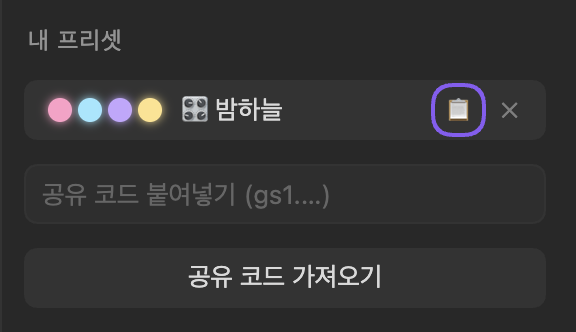
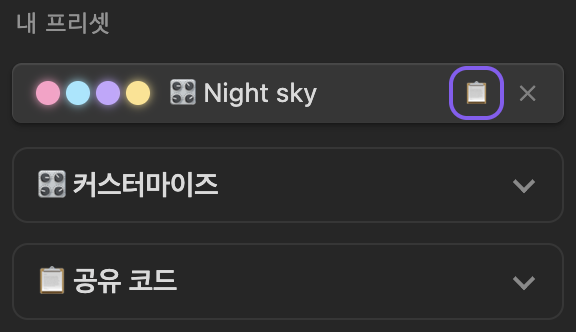
docs: show the grouped panel in the README text and screenshots
The README text and the 14 panel screenshots still described the old flat panel: the share-code
box under My presets, every export option always visible, Restore original above Customize and
the Last export link "at the bottom". The text now names the collapsed groups, the More
options fold and the check-marked active theme, and the images were re-shot from this branch
on the synthetic 391-note vault (hero, quick start and local graph at 1600x1000; panel crops
at 576 px wide; same file names, so the links are unchanged). hero-panel, local-graph and
the export-post-ready image keep Vaporwave and quick-start keeps Neon so the alt texts and
the "same vault" pairing still hold. presets.jpg and export-post-ready.png show no panel and
are untouched.

diff --git a/README.ko.md b/README.ko.md
@@ -36,6 +36,8 @@ Obsidian에서 **설정 → 커뮤니티 플러그인 → 탐색**을 열고 "Gr
 2. 왼쪽 리본의 팔레트 아이콘(**Graph Styler**)을 누릅니다. 오른쪽에 패널이 열립니다.
 3. 프리셋을 누르면 그래프가 바로 바뀝니다. 언제든 **↩ 원래대로 되돌리기**를 누르면 처음 모습으로 돌아갑니다.
 
+패널 맨 위에는 프리셋이 있습니다. **🎛 커스터마이즈**, **📋 공유 코드**, **🖼 이미지 내보내기**는 그 아래에 접혀 있는 그룹이고, **↩ 원래대로 되돌리기**는 맨 아래에 있습니다. 그룹은 눌러서 열고 닫으며, Obsidian을 다시 시작할 때까지 그 상태가 유지됩니다.
+
 ![Neon을 적용한 그래프 옆에 열린 Graph Styler 패널](docs/quick-start-ko.jpg)
 
 ## 할 수 있는 일
@@ -48,21 +50,21 @@ Obsidian에서 **설정 → 커뮤니티 플러그인 → 탐색**을 열고 "Gr
 
 ![노트 391개짜리 같은 vault에 적용한 14개 프리셋](docs/presets.jpg)
 
-기본 프리셋은 색, 글로우, 색 그룹만 바꾸고 지금의 그래프 물리·크기 설정은 그대로 둡니다. 기본 프리셋마다 명령도 하나씩 있습니다(예: **Graph Styler: 적용: Neon**).
+프리셋은 두 칸짜리 격자로 놓여 있고, 쓰는 중인 프리셋에는 테두리와 체크 표시가 붙습니다. 기본 프리셋은 색, 글로우, 색 그룹만 바꾸고 지금의 그래프 물리·크기 설정은 그대로 둡니다. 기본 프리셋마다 명령도 하나씩 있습니다(예: **Graph Styler: 적용: Neon**).
 
 ### 내 프리셋 만들기
 
-**🎛 커스터마이즈**를 열어 그룹 색, 배경, 글로우를 고르고 물리 슬라이더를 움직이면 그래프가 바로 따라 바뀝니다. 이름을 붙이고 **💾 내 프리셋으로 저장**을 누르면 *내 프리셋*에 추가됩니다.
+접혀 있는 **🎛 커스터마이즈**를 펼쳐 그룹 색, 배경, 글로우를 고르고 물리 슬라이더를 움직이면 그래프가 바로 따라 바뀝니다. 이름을 붙이고 **💾 내 프리셋으로 저장**을 누르면 *내 프리셋*에 추가됩니다.
 
-<img src="docs/customize-ko.png" width="288" alt="색 선택, 슬라이더, 내 프리셋으로 저장 버튼이 있는 커스터마이즈 영역" />
+<img src="docs/customize-ko.png" width="288" alt="색 선택, 슬라이더, 내 프리셋으로 저장 버튼이 있는 펼쳐진 커스터마이즈 그룹" />
 
 커스터마이즈는 그래프 물리를 실시간으로 바꾸므로 다시 쓸 설정만 저장하세요.
 
 ### 프리셋 공유
 
-*내 프리셋*에서 프리셋 옆의 📋를 누르면 `gs1.`로 시작하는 한 줄짜리 코드가 복사됩니다. 받은 코드는 **공유 코드 붙여넣기** 칸에 넣고 **공유 코드 가져오기**를 누르세요. 가져온 프리셋은 *내 프리셋*에 추가만 되고, 누르기 전까지는 적용되지 않습니다.
+*내 프리셋*에서 프리셋 옆의 📋를 누르면 `gs1.`로 시작하는 한 줄짜리 코드가 복사됩니다. 받은 코드는 **📋 공유 코드**를 펼쳐 **공유 코드 붙여넣기** 칸에 넣고 **공유 코드 가져오기**를 누르세요. 가져온 프리셋은 *내 프리셋*에 추가만 되고, 누르기 전까지는 적용되지 않습니다.
 
-<img src="docs/share-ko.png" width="288" alt="복사·삭제 버튼과 공유 코드 입력 칸이 있는 내 프리셋 영역" />
+<img src="docs/share-ko.png" width="288" alt="복사·삭제 버튼이 있는 내 프리셋 아래로 커스터마이즈 그룹과, 코드 입력 칸과 가져오기 버튼이 있는 펼쳐진 공유 코드 그룹" />
 
 가져올 때 값을 검사하므로 깨지거나 손으로 고친 코드도 그래프 설정을 허용 범위 밖으로 바꾸지 못합니다. 색은 받는 사람 vault에서 노트가 많은 폴더 순서대로 입혀지므로, 같은 프리셋이라도 다른 vault에서는 다른 폴더에 색이 들어갈 수 있습니다.
 
@@ -74,20 +76,23 @@ Obsidian에서 **설정 → 커뮤니티 플러그인 → 탐색**을 열고 "Gr
 
 ### 그래프를 PNG로 내보내기
 
-명령어 팔레트에서 **Graph Styler: 그래프를 PNG로 내보내기**를 실행하거나 패널의 **그래프를 PNG로 내보내기**를 누르세요. PNG는 `Graph Styler exports/graph-<프리셋>-<날짜>.png`로 저장됩니다. 저장한 이미지는 그래프 옆에 바로 열리고 파일 탐색기에서도 표시됩니다. 알림에 경로와 **열기**·**Finder에서 보기** 버튼이 나오고, 패널 아래에는 **마지막으로 내보낸 이미지** 링크가 남습니다. 파일로 저장하지 않고 게시물이나 채팅에 바로 붙여넣으려면 **이미지 복사**를 누르세요.
+명령어 팔레트에서 **Graph Styler: 그래프를 PNG로 내보내기**를 실행하거나 패널의 **🖼 이미지 내보내기**를 펼쳐 **그래프를 PNG로 내보내기**를 누르세요. PNG는 `Graph Styler exports/graph-<프리셋>-<날짜>.png`로 저장됩니다. 저장한 이미지는 그래프 옆에 바로 열리고 파일 탐색기에서도 표시됩니다. 알림에 경로와 **열기**·**Finder에서 보기** 버튼이 나오고, **이미지 내보내기** 그룹에는 **마지막으로 내보낸 이미지** 링크가 남습니다. 파일로 저장하지 않고 게시물이나 채팅에 바로 붙여넣으려면 **이미지 복사**를 누르세요.
 
-패널의 옵션마다 아래에 한 줄 설명이 있습니다. 이 옵션들은 저장되는 그림에만 적용되고 그래프 자체는 바뀌지 않습니다.
+패널의 옵션마다 아래에 한 줄 설명이 있습니다. 이 옵션들은 저장되는 그림에만 적용되고 그래프 자체는 바뀌지 않습니다. **비율**, 두 버튼, 마지막으로 내보낸 이미지는 그룹 안에 늘 보이고, 나머지 옵션은 처음에 닫혀 있는 **옵션 더 보기** 안에 있습니다.
+
+- **비율**을 1:1이나 4:5로 고르면 프리셋 배경으로 여백을 채웁니다. 노트는 잘리지 않습니다.
+
+**옵션 더 보기** 안에는 다음이 있습니다.
 
 - **배율**(1x–4x, 기본 2x)은 지금 화면에 그려진 그래프 크기에 곱해집니다. 그래프가 보통 크기로 열려 있다면 2x로도 1080px 게시물에 충분합니다.
 - **전체 그래프 맞추기**를 켜면 모든 노트가 들어오게 맞춰 내보내고 끝나면 보던 화면으로 돌려놓습니다.
-- **비율**을 1:1이나 4:5로 고르면 프리셋 배경으로 여백을 채웁니다. 노트는 잘리지 않습니다.
 - **캡션**은 날짜, 노트 수, 프리셋 이름 중 고른 것을 작은 한 줄로 넣습니다.
 - **이미지 저장 폴더**에서 저장할 폴더를 정합니다(없으면 새로 만듦). 비워 두면 vault 맨 위에 저장합니다.
 - 자주 내보낸다면 **내보낸 뒤 이미지 열기**를 끌 수 있습니다.
 
-<img src="docs/export-options-ko.png" width="288" alt="배율 2x, 전체 그래프 맞추기, 비율 4:5, 날짜와 노트 수 캡션을 고른 내보내기 옵션과 옵션마다 붙은 한 줄 설명, 이미지 저장 폴더, 내보낸 뒤 이미지 열기, 내보내기와 이미지 복사 버튼, 마지막으로 내보낸 이미지 링크" />
+<img src="docs/export-options-ko.png" width="288" alt="옵션 더 보기를 펼친 이미지 내보내기 그룹: 비율 4:5, 내보내기와 이미지 복사 버튼, 마지막으로 내보낸 이미지 링크, 그 아래로 배율 2x, 전체 그래프 맞추기, 날짜와 노트 수 캡션, 이미지 저장 폴더, 내보낸 뒤 이미지 열기와 옵션마다 붙은 한 줄 설명" />
 
-인스타그램에 올릴 거라면 **전체 그래프 맞추기**를 켜고 **비율**을 4:5로, 캡션 항목을 고른 뒤 2x로 내보내세요. 전체를 맞추느라 Obsidian이 라벨을 숨길 만큼 작아지면 연결이 가장 많은 노트의 이름을 그림에 대신 써 줍니다.
+인스타그램에 올릴 거라면 **비율**을 4:5로 고르고, **옵션 더 보기**에서 **전체 그래프 맞추기**를 켜고 캡션 항목을 고른 뒤 2x로 내보내세요. 전체를 맞추느라 Obsidian이 라벨을 숨길 만큼 작아지면 연결이 가장 많은 노트의 이름을 그림에 대신 써 줍니다.
 
 <img src="docs/export-post-ready.png" width="400" alt="노트 391개 vault를 Vaporwave로, 허브 라벨과 캡션을 넣어 4:5로 내보낸 이미지" />
 
@@ -105,9 +110,9 @@ Obsidian에서 **설정 → 커뮤니티 플러그인 → 탐색**을 열고 "Gr
 
 ### 키보드로 패널 쓰기
 
-*내 프리셋*에서 Tab을 누르면 프리셋, 📋(공유 코드 복사), ✕(프리셋 삭제) 순서로 포커스가 옮겨 갑니다. 📋나 ✕에서 Enter나 Space를 누르면 프리셋은 적용되지 않고 그 버튼만 실행됩니다. 포커스가 간 버튼에는 테두리가 표시됩니다.
+Tab을 누르면 프리셋을 차례로 지난 뒤 그룹 머리글(**커스터마이즈**, **공유 코드**, **이미지 내보내기**, 그룹이 열려 있으면 **옵션 더 보기**)로 포커스가 옮겨 갑니다. 머리글에서 Enter나 Space를 누르면 그룹이 열리고 닫힙니다. *내 프리셋*에서는 프리셋, 📋(공유 코드 복사), ✕(프리셋 삭제) 순서로 포커스가 가고, 📋나 ✕에서 Enter나 Space를 누르면 프리셋은 적용되지 않고 그 버튼만 실행됩니다. 포커스가 간 버튼과 머리글에는 테두리가 표시됩니다.
 
-<img src="docs/keyboard-ko.png" width="288" alt="키보드 포커스 테두리가 표시된 프리셋의 복사 버튼" />
+<img src="docs/keyboard-ko.png" width="288" alt="키보드 포커스 테두리가 표시된 프리셋의 복사 버튼과 그 아래의 닫힌 커스터마이즈·공유 코드 그룹" />
 
 ## 색이 내 vault에 매핑되는 방식
 
@@ -147,7 +152,7 @@ Graph Styler는 Obsidian의 색 그룹을 그대로 쓰므로, 그래프 뷰 설
 배율은 화면에 그려진 그래프 크기에 곱해지므로, 그래프가 차지한 영역이 좁으면 이미지도 작게 나옵니다. Obsidian 창을 키우거나 그래프 영역을 넓혀 보세요. 그래픽 카드가 감당하지 못하는 배율이면 들어가는 가장 큰 배율로 저장하고 "4x는 이 그래프 화면에 너무 커서 3x로 저장"처럼 알려 줍니다.
 
 **내보낸 그림이 어디에 저장됐나요?**
-vault 안의 `Graph Styler exports` 폴더(또는 **이미지 저장 폴더**에 정한 폴더)에 있습니다. 내보내면 이미지가 그래프 옆에 바로 열리고, 파일 탐색기에서 표시되며, 알림에 **열기**·**Finder에서 보기** 버튼이 나옵니다. 나중에는 패널 맨 아래의 **마지막으로 내보낸 이미지** 링크를 누르세요. Graph Styler 0.3.1까지는 vault 맨 위에 저장했습니다.
+vault 안의 `Graph Styler exports` 폴더(또는 **이미지 저장 폴더**에 정한 폴더)에 있습니다. 내보내면 이미지가 그래프 옆에 바로 열리고, 파일 탐색기에서 표시되며, 알림에 **열기**·**Finder에서 보기** 버튼이 나옵니다. 나중에는 패널의 **이미지 내보내기** 그룹에 있는 **마지막으로 내보낸 이미지** 링크를 누르세요. Graph Styler 0.3.1까지는 vault 맨 위에 저장했습니다.
 
 **플러그인을 업데이트해도 테마가 유지되나요?**
 네, 0.2.0부터 유지됩니다. 플러그인을 불러올 때 지금 켜진 프리셋의 스니펫 파일이 예전 버전이 만든 것이면 새 내용으로 다시 씁니다. 직접 고친 스니펫은 건드리지 않습니다.

diff --git a/README.md b/README.md
@@ -34,6 +34,8 @@ To install by hand, download `main.js`, `manifest.json` and `styles.css` from th
 2. Select the palette icon (**Graph Styler**) in the left ribbon. The panel opens on the right.
 3. Select a preset. The graph changes at once; **↩ Restore original** at any time brings back what you had.
 
+The panel keeps the presets on top. **🎛 Customize**, **📋 Share code** and **🖼 Export image** are collapsed groups below them, and **↩ Restore original** is at the very bottom. Each group opens and closes with a click, and keeps that state until you restart Obsidian.
+
 ![The Graph Styler panel next to a graph styled with Neon](docs/quick-start.jpg)
 
 ## What you can do
@@ -46,21 +48,21 @@ Fourteen presets, each with its own colours, background and glow:
 
 ![All fourteen presets on the same 391-note vault](docs/presets.jpg)
 
-Presets change colours, glow and colour groups only. Your forces and size settings stay as they are. Each built-in preset is also a command: **Graph Styler: Apply: Neon** and so on.
+The presets sit in a two-column grid. The one in use has a frame and a check mark. Presets change colours, glow and colour groups only. Your forces and size settings stay as they are. Each built-in preset is also a command: **Graph Styler: Apply: Neon** and so on.
 
 ### Make your own preset
 
-Open **🎛 Customize**, pick group colours, a background and the glow, and move the physics sliders. The graph follows as you drag. Name it and select **💾 Save as preset**; it appears under *My presets*.
+Expand **🎛 Customize**, pick group colours, a background and the glow, and move the physics sliders. The graph follows as you drag. Name it and select **💾 Save as preset**; it appears under *My presets*.
 
-<img src="docs/customize.png" width="288" alt="The Customize section with colour pickers, sliders and the Save as preset button" />
+<img src="docs/customize.png" width="288" alt="The expanded Customize group with colour pickers, sliders and the Save as preset button" />
 
 Customize changes the graph's physics live, so save only what you want to reuse.
 
 ### Share a preset
 
-To send a preset to someone, select 📋 next to it under *My presets*. A one-line code starting with `gs1.` is copied. To use a code you received, paste it into **Paste a share code** and select **Import share code**. The preset is added to *My presets* but not applied until you select it.
+To send a preset to someone, select 📋 next to it under *My presets*. A one-line code starting with `gs1.` is copied. To use a code you received, expand **📋 Share code**, paste it into **Paste a share code** and select **Import share code**. The preset is added to *My presets* but not applied until you select it.
 
-<img src="docs/share.png" width="288" alt="My presets with the copy and delete buttons and the share-code box" />
+<img src="docs/share.png" width="288" alt="My presets with the copy and delete buttons, above the Customize group and the expanded Share code group with its code box and Import button" />
 
 Imported values are checked, so a damaged or edited code cannot push the graph out of range. Colours go to the recipient's own busiest folders, so the same preset can colour different folders in another vault.
 
@@ -72,20 +74,23 @@ Presets saved this way share as codes starting with `gs2.`. Graph Styler 0.2 rej
 
 ### Export your graph as a PNG
 
-Run **Graph Styler: Export graph as PNG** from the command palette, or use **Export graph as PNG** in the panel. The PNG is saved as `Graph Styler exports/graph-<preset>-<date>.png`. The image opens next to your graph and is highlighted in the file explorer. A notice shows the path, with **Open** and **Show in Finder** buttons, and the panel keeps a **Last export** link to it. Use **Copy image** to put the picture on the clipboard instead of saving a file, for example to paste it into a post or a chat.
+Run **Graph Styler: Export graph as PNG** from the command palette, or expand **🖼 Export image** in the panel and use **Export graph as PNG**. The PNG is saved as `Graph Styler exports/graph-<preset>-<date>.png`. The image opens next to your graph and is highlighted in the file explorer. A notice shows the path, with **Open** and **Show in Finder** buttons, and the **Export image** group keeps a **Last export** link to it. Use **Copy image** to put the picture on the clipboard instead of saving a file, for example to paste it into a post or a chat.
 
-Each option in the panel has a one-line explanation under it. The options only change the saved picture, not your graph.
+Each option in the panel has a one-line explanation under it. The options only change the saved picture, not your graph. **Aspect**, the two buttons and the last export are always visible in the group; the other options are under **More options**, which starts closed.
+
+- **Aspect** 1:1 or 4:5 pads the image with the preset background. Notes are never cropped.
+
+Under **More options**:
 
 - **Scale** (1x–4x, default 2x) multiplies the graph as it is drawn on your screen. 2x of a typical pane is wide enough for a 1080 px post.
 - **Fit whole graph** frames every note for the export, then puts your view back.
-- **Aspect** 1:1 or 4:5 pads the image with the preset background. Notes are never cropped.
 - **Caption** adds a small line with the date, the note count or the preset name.
 - **Save exported images to** sets the folder (created when needed). Leave it empty to save at the top of the vault.
 - **Open the image after exporting** can be turned off if you export often.
 
-<img src="docs/export-options.png" width="288" alt="Export section: Scale 2x, Fit whole graph, Aspect 4:5, a caption with date and note count, each with a one-line explanation; the save folder, Open the image after exporting, the Export and Copy image buttons and a Last export link" />
+<img src="docs/export-options.png" width="288" alt="The Export image group with More options expanded: Aspect 4:5, the Export and Copy image buttons and a Last export link, then Scale 2x, Fit whole graph, a caption with date and note count, the save folder and Open the image after exporting, each with a one-line explanation" />
 
-To post on Instagram, tick **Fit whole graph**, choose **4:5**, pick the caption items and export at 2x. When the fitted view is too far out for Obsidian to show labels, the most-linked notes are named in the image.
+To post on Instagram, choose **4:5**, then under **More options** tick **Fit whole graph**, pick the caption items and keep 2x, and export. When the fitted view is too far out for Obsidian to show labels, the most-linked notes are named in the image.
 
 <img src="docs/export-post-ready.png" width="400" alt="A 4:5 export of a 391-note vault in Vaporwave, with hub labels and a caption" />
 
@@ -103,9 +108,9 @@ A local graph that opens without colour groups of its own takes the active prese
 
 ### Use the panel from the keyboard
 
-In *My presets*, Tab moves from a preset to its 📋 (copy share code) and ✕ (delete) buttons, and Enter or Space runs them without applying the preset. These buttons show a focus ring.
+Tab walks through the presets, then the group headers (**Customize**, **Share code**, **Export image**, and **More options** when its group is open). Enter or Space on a header opens or closes the group. In *My presets*, Tab moves from a preset to its 📋 (copy share code) and ✕ (delete) buttons, and Enter or Space runs them without applying the preset. Focused buttons and headers show a focus ring.
 
-<img src="docs/keyboard.png" width="288" alt="The copy button of a preset with a keyboard focus ring" />
+<img src="docs/keyboard.png" width="288" alt="The copy button of a preset with a keyboard focus ring, above the closed Customize and Share code groups" />
 
 ## How colours map to your vault
 
@@ -145,7 +150,7 @@ New local graphs take the colours only while a Graph Styler preset is active, on
 The scale multiplies the graph as drawn on screen, so a narrow pane gives a narrow image; widen the pane or the window. If a scale is too large for the graphics card, Graph Styler saves at the largest scale that fits and says so ("4x is too large for this graph view — saved at 3x").
 
 **Where did my exported picture go?**
-Into the `Graph Styler exports` folder in your vault (or the folder set under **Save exported images to**). Right after an export the image opens next to the graph, it is highlighted in the file explorer, and the notice has **Open** and **Show in Finder**. Later, use the **Last export** link at the bottom of the panel. Graph Styler 0.3.1 and earlier saved exports at the top of the vault.
+Into the `Graph Styler exports` folder in your vault (or the folder set under **Save exported images to**). Right after an export the image opens next to the graph, it is highlighted in the file explorer, and the notice has **Open** and **Show in Finder**. Later, use the **Last export** link in the panel's **Export image** group. Graph Styler 0.3.1 and earlier saved exports at the top of the vault.
 
 **Does my theme survive a plugin update?**
 Yes, from 0.2.0 on. When the plugin loads, the active preset's snippet file is rewritten if an older version generated it; snippets you edited by hand are left alone.
